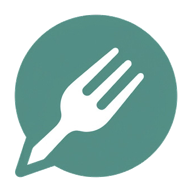
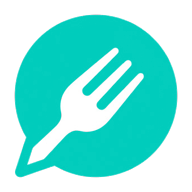
Cores estilo Deliveroo: Teal #00CCBC, Outer Space #2E3333, Lemon e cores de comida por tipo de loja; logótipo e ícones recoloridos
Claude-Session: https://claude.ai/code/session_01Y4KmxGhJ86JYRTJupbkEoC

diff --git a/client/src/pages/customer/Plus.tsx b/client/src/pages/customer/Plus.tsx
@@ -41,11 +41,11 @@ function PlusMember({ info }: { info: PlusInfo }) {
   return (
     <div className="space-y-3">
       <div className="rounded-2xl border bg-white p-5 shadow-sm">
-        <p className="flex items-center gap-2 text-sm font-semibold text-violet-700"><Check className="h-4 w-4" />{t({ pt: "É membro PedeAí Plus", en: "You're a PedeAí Plus member", fr: "Vous êtes membre PedeAí Plus" })}</p>
+        <p className="flex items-center gap-2 text-sm font-semibold text-brand-700"><Check className="h-4 w-4" />{t({ pt: "É membro PedeAí Plus", en: "You're a PedeAí Plus member", fr: "Vous êtes membre PedeAí Plus" })}</p>
         <div className="mt-4 grid grid-cols-2 gap-3">
-          <div className="rounded-xl bg-violet-50 p-3">
-            <p className="text-xs text-violet-700">{t({ pt: "Poupança estimada", en: "Estimated savings", fr: "Économies estimées" })}</p>
-            <p className="text-xl font-bold text-violet-900">{kz(info.estimatedSavings)}</p>
+          <div className="rounded-xl bg-brand-50 p-3">
+            <p className="text-xs text-brand-700">{t({ pt: "Poupança estimada", en: "Estimated savings", fr: "Économies estimées" })}</p>
+            <p className="text-xl font-bold text-brand-900">{kz(info.estimatedSavings)}</p>
           </div>
           <div className="rounded-xl bg-neutral-50 p-3">
             <p className="text-xs text-neutral-600">{sub.autoRenew ? t({ pt: "Renova a", en: "Renews on", fr: "Renouvelé le" }) : t({ pt: "Termina a", en: "Ends on", fr: "Se termine le" })}</p>
@@ -125,7 +125,7 @@ function Subscribe({ price }: { price: number }) {
         </Alert>
       )}
       <PaymentPicker value={method} onChange={setMethod} excludeCash />
-      <Button className="h-12 w-full rounded-xl bg-violet-700 text-base hover:bg-violet-800" disabled={!method || subscribe.isPending || !anyOnline} onClick={() => subscribe.mutate()}>
+      <Button className="h-12 w-full rounded-xl bg-on-brand text-base text-white hover:bg-on-brand/90" disabled={!method || subscribe.isPending || !anyOnline} onClick={() => subscribe.mutate()}>
         {subscribe.isPending && <Loader2 className="mr-2 h-5 w-5 animate-spin" />}
         {t({ pt: `Aderir por ${kz(price)}/mês`, en: `Join for ${kz(price)}/month`, fr: `S'abonner pour ${kz(price)}/mois` })}
       </Button>
@@ -158,7 +158,7 @@ export default function Plus() {
     <CustomerShell>
       <div className="px-4 pb-8 pt-4">
         {/* Hero */}
-        <div className="relative overflow-hidden rounded-3xl bg-gradient-to-br from-violet-700 via-fuchsia-700 to-brand-600 p-6 text-white shadow-lg">
+        <div className="relative overflow-hidden rounded-3xl bg-gradient-to-br from-on-brand via-on-brand to-brand-800 p-6 text-white shadow-lg">
           <Sparkles className="absolute -right-4 -top-4 h-28 w-28 text-white/10" aria-hidden />
           <span className="inline-flex items-center gap-1.5 rounded-full bg-white/15 px-3 py-1 text-xs font-semibold"><Crown className="h-3.5 w-3.5" />PedeAí Plus</span>
           <h1 className="mt-3 text-3xl font-extrabold leading-tight">{t({ pt: "Entregas grátis, todos os dias.", en: "Free delivery, every day.", fr: "Livraison gratuite, tous les jours." })}</h1>
@@ -172,7 +172,7 @@ export default function Plus() {
         <ul className="mt-5 space-y-3">
           {perks.map(({ icon: Icon, title, text }) => (
             <li key={title.pt} className="flex gap-3 rounded-2xl border bg-white p-4 shadow-sm">
-              <span className="flex h-10 w-10 shrink-0 items-center justify-center rounded-xl bg-violet-100 text-violet-700"><Icon className="h-5 w-5" /></span>
+              <span className="flex h-10 w-10 shrink-0 items-center justify-center rounded-xl bg-brand-100 text-brand-700"><Icon className="h-5 w-5" /></span>
               <div>
                 <p className="font-semibold">{t(title)}</p>
                 <p className="text-sm text-neutral-600">{t(text)}</p>

diff --git a/client/src/pages/customer/Profile.tsx b/client/src/pages/customer/Profile.tsx
@@ -166,7 +166,7 @@ function ProfileInner() {
           <p className="truncate text-lg font-bold">{u.fullName}</p>
           <p className="truncate text-sm text-neutral-500">{u.phone}</p>
           {u.email && <p className="truncate text-xs text-neutral-500">{u.email}</p>}
-          {plusQ.data?.active && <span className="mt-1 inline-flex items-center gap-1 rounded-full bg-violet-100 px-2 py-0.5 text-xs font-semibold text-violet-800"><Crown className="h-3 w-3" />Plus</span>}
+          {plusQ.data?.active && <span className="mt-1 inline-flex items-center gap-1 rounded-full bg-brand-100 px-2 py-0.5 text-xs font-semibold text-brand-800"><Crown className="h-3 w-3" />Plus</span>}
         </div>
         <Button variant="outline" size="icon" onClick={() => setEditOpen(true)} aria-label={t({ pt: "Editar perfil", en: "Edit profile", fr: "Modifier le profil" })}><Pencil className="h-4 w-4" /></Button>
       </div>
@@ -177,11 +177,11 @@ function ProfileInner() {
 
       {/* Pontos */}
       {isCustomer && (
-        <Link href="/perfil/pontos" className="flex items-center gap-3 rounded-2xl bg-gradient-to-r from-amber-500 to-brand-600 p-4 text-white shadow-sm">
+        <Link href="/perfil/pontos" className="flex items-center gap-3 rounded-2xl bg-gradient-to-r from-primary to-pop p-4 text-on-brand shadow-sm">
           <Coins className="h-7 w-7" />
           <div className="flex-1">
             <p className="text-2xl font-extrabold leading-none">{u.loyaltyPoints}</p>
-            <p className="text-xs text-white/85">{t({ pt: "pontos · convide amigos e ganhe mais", en: "points · invite friends to earn more", fr: "points · invitez des amis" })}</p>
+            <p className="text-xs opacity-80">{t({ pt: "pontos · convide amigos e ganhe mais", en: "points · invite friends to earn more", fr: "points · invitez des amis" })}</p>
           </div>
           <ChevronRight className="h-5 w-5" />
         </Link>
@@ -194,7 +194,7 @@ function ProfileInner() {
         {isCustomer && <Row href="/favoritos" icon={<Heart className="h-5 w-5" />} label={t({ pt: "Favoritos", en: "Favourites", fr: "Favoris" })} />}
         {isCustomer && <Row href="/perfil/pontos" icon={<Coins className="h-5 w-5" />} label={t({ pt: "Pontos e convites", en: "Points & referrals", fr: "Points et parrainage" })} />}
         {isCustomer && <Row href="/plus" icon={<Crown className="h-5 w-5" />} label="PedeAí Plus"
-          hint={plusQ.data?.active ? <span className="text-xs font-semibold text-violet-700">{t({ pt: "Activo", en: "Active", fr: "Actif" })}</span> : undefined} />}
+          hint={plusQ.data?.active ? <span className="text-xs font-semibold text-brand-700">{t({ pt: "Activo", en: "Active", fr: "Actif" })}</span> : undefined} />}
       </nav>
 
       {/* Preferências */}

diff --git a/client/src/lib/format.ts b/client/src/lib/format.ts
@@ -44,14 +44,26 @@ export const STATUS_COLOR: Record<string, string> = {
   rejected: "bg-red-100 text-red-800",
 };
 
-export const STORE_TYPE: Record<string, Tr & { icon: string }> = {
-  restaurant: { pt: "Restaurantes", en: "Restaurants", fr: "Restaurants", icon: "🍽" },
-  bakery: { pt: "Pastelaria e bolos", en: "Bakery & cakes", fr: "Pâtisserie", icon: "🎂" },
-  grocery: { pt: "Supermercado", en: "Grocery", fr: "Épicerie", icon: "🛒" },
-  pharmacy: { pt: "Farmácia", en: "Pharmacy", fr: "Pharmacie", icon: "💊" },
-  beauty: { pt: "Beleza", en: "Beauty", fr: "Beauté", icon: "💄" },
-  flowers: { pt: "Flores", en: "Flowers", fr: "Fleurs", icon: "💐" },
-  retail: { pt: "Casa e presentes", en: "Home & gifts", fr: "Maison et cadeaux", icon: "🎁" },
+
+/** Cores de comida (secundárias). Usadas nos tipos de loja e nas imagens de reserva. */
+export const FOOD_COLORS = {
+  pumpkin: "#FF7B00", // pizzas, massas, fritos
+  beetroot: "#920054", // carnes, sobremesas de bagas, sumos
+  lime: "#89D900", // frescura, citrinos
+  seaweed: "#004D40", // sushi, saudável, saladas
+  burgerSauce: "#FF5252", // fast food, hambúrgueres, picante
+  lemon: "#FFD54F", // sobremesas, pequenos-almoços
+  ancho: "#5D4037", // grelhados, churrasco, fumo
+} as const;
+
+export const STORE_TYPE: Record<string, Tr & { icon: string; color: string }> = {
+  restaurant: { pt: "Restaurantes", en: "Restaurants", fr: "Restaurants", icon: "🍽", color: FOOD_COLORS.pumpkin },
+  bakery: { pt: "Pastelaria e bolos", en: "Bakery & cakes", fr: "Pâtisserie", icon: "🎂", color: FOOD_COLORS.lemon },
+  grocery: { pt: "Supermercado", en: "Grocery", fr: "Épicerie", icon: "🛒", color: FOOD_COLORS.lime },
+  pharmacy: { pt: "Farmácia", en: "Pharmacy", fr: "Pharmacie", icon: "💊", color: FOOD_COLORS.seaweed },
+  beauty: { pt: "Beleza", en: "Beauty", fr: "Beauté", icon: "💄", color: FOOD_COLORS.beetroot },
+  flowers: { pt: "Flores", en: "Flowers", fr: "Fleurs", icon: "💐", color: FOOD_COLORS.burgerSauce },
+  retail: { pt: "Casa e presentes", en: "Home & gifts", fr: "Maison et cadeaux", icon: "🎁", color: FOOD_COLORS.ancho },
 };
 
 export const DIETARY: Record<string, Tr & { icon: string }> = {
@@ -89,7 +101,7 @@ export function initials(name: string): string {
 
 /** Cor estável a partir de um texto (para capas sem imagem). */
 export function colorFor(text: string): string {
-  const palette = ["#3F7A72", "#C2410C", "#B45309", "#15803D", "#0E7490", "#7C3AED", "#BE185D", "#1D4ED8", "#A16207"];
+  const palette = ["#00897E", "#FF7B00", "#920054", "#004D40", "#FF5252", "#5D4037", "#D35400"];
   let h = 0;
   for (const ch of text) h = (h * 31 + ch.charCodeAt(0)) >>> 0;
   return palette[h % palette.length];

diff --git a/client/src/pages/customer/Home.tsx b/client/src/pages/customer/Home.tsx
@@ -265,7 +265,7 @@ export default function Home() {
         {(meta.data?.storeTypes ?? Object.keys(STORE_TYPE)).map((type) => STORE_TYPE[type] && (
           <Link key={type} href={`/pesquisa?type=${type}${zq}`}
             className="flex min-w-[4.75rem] flex-col items-center gap-1.5 rounded-2xl px-1 py-2 hover:bg-neutral-50">
-            <span className="flex h-14 w-14 items-center justify-center rounded-2xl bg-brand-50 text-2xl" aria-hidden>{STORE_TYPE[type].icon}</span>
+            <span className="flex h-14 w-14 items-center justify-center rounded-2xl text-2xl" style={{ backgroundColor: `${STORE_TYPE[type].color}2E` }} aria-hidden>{STORE_TYPE[type].icon}</span>
             <span className="text-center text-xs font-medium leading-tight text-neutral-700">{t(STORE_TYPE[type])}</span>
           </Link>
         ))}
@@ -273,11 +273,11 @@ export default function Home() {
 
       {/* PedeAí Plus */}
       <div className="px-4 pt-4">
-        <Link href="/plus" className="flex items-center gap-3 rounded-2xl bg-gradient-to-r from-primary to-pop p-4 text-white shadow-md">
+        <Link href="/plus" className="flex items-center gap-3 rounded-2xl bg-gradient-to-r from-primary to-pop p-4 text-on-brand shadow-md">
           <span className="flex h-11 w-11 shrink-0 items-center justify-center rounded-full bg-white/20"><Crown className="h-6 w-6" aria-hidden /></span>
           <div className="min-w-0 flex-1">
             <p className="font-bold">PedeAí Plus</p>
-            <p className="text-sm text-white/90">
+            <p className="text-sm opacity-90">
               {meta.data
                 ? t({
                   pt: `Entregas grátis acima de ${kz(meta.data.plus.freeDeliveryMinOrder)} por ${kz(meta.data.plus.monthlyPrice)}/mês`,

diff --git a/client/src/index.css b/client/src/index.css
@@ -3,18 +3,20 @@
 @tailwind utilities;
 
 :root {
-  /* Marca PedeAí: escala de cor (R G B). Ver docs/CORES.md */
-  --brand-50: 243 247 247;
-  --brand-100: 227 237 236;
-  --brand-200: 200 219 216;
-  --brand-300: 160 193 188;
-  --brand-400: 117 165 158;
-  --brand-500: 82 142 134;
-  --brand-600: 74 128 121;
-  --brand-700: 61 105 99;
-  --brand-800: 48 83 79;
-  --brand-900: 37 64 60;
-  --pop: 43 179 163;
+  /* Marca PedeAí: Teal #00CCBC + Outer Space #2E3333 + cores de comida (ver lib/format.ts). Valores R G B. */
+  --brand-50: 237 251 250;
+  --brand-100: 214 247 244;
+  --brand-200: 173 239 234;
+  --brand-300: 115 227 218;
+  --brand-400: 51 214 201;
+  --brand-500: 0 204 188;
+  --brand-600: 0 131 120;
+  --brand-700: 0 107 98;
+  --brand-800: 0 85 78;
+  --brand-900: 0 66 60;
+  --pop: 255 213 79; /* Lemon #FFD54F (destaque) */
+  --on-brand: 46 51 51; /* Outer Space #2E3333: texto escuro sobre o turquesa */
+  --brand-ink: 0 120 110; /* texto turquesa sobre branco (contraste >= 4.5:1) */
   --background: 0 0% 100%;
   --foreground: 20 14.3% 4.1%;
   --muted: 60 4.8% 95.9%;
@@ -25,7 +27,7 @@
   --card-foreground: 20 14.3% 4.1%;
   --border: 20 5.9% 90%;
   --input: 20 5.9% 90%;
-  --primary: 172 32% 36%; /* Verde PedeAí (logótipo #528E86, escurecido para contraste AA) */
+  --primary: 175 100% 40%;
   --primary-foreground: 60 9.1% 97.8%;
   --secondary: 142 70% 49%; /* Green */
   --secondary-foreground: 24 9.8% 10%;
@@ -88,4 +90,9 @@
 /* Custom shadows */
 .custom-shadow {
   box-shadow: 0 4px 12px rgba(0, 0, 0, 0.08);
+}
+
+/* Texto na cor da marca sobre fundo claro: usar o tom escuro para ser legível */
+@layer utilities {
+  .text-primary { color: rgb(var(--brand-ink)); }
 }

diff --git a/client/src/pages/customer/_orderingKit.tsx b/client/src/pages/customer/_orderingKit.tsx
@@ -268,7 +268,7 @@ export const PAYMENT_ICON: Record<string, string> = { cash: "💵", multicaixa_e
 
 export function SandboxBadge() {
   const t = useT();
-  return <span className="rounded-full bg-violet-100 px-2 py-0.5 text-[10px] font-semibold uppercase tracking-wide text-violet-800">{t({ pt: "modo de teste", en: "test mode", fr: "mode test" })}</span>;
+  return <span className="rounded-full bg-brand-100 px-2 py-0.5 text-[10px] font-semibold uppercase tracking-wide text-brand-800">{t({ pt: "modo de teste", en: "test mode", fr: "mode test" })}</span>;
 }
 
 export function PaymentPicker({ value, onChange, excludeCash }: { value: string; onChange: (v: string) => void; excludeCash?: boolean }) {
@@ -512,7 +512,7 @@ export function QuoteBreakdown({ quote }: { quote: Pick<Quote, "subtotal" | "del
         quote.plusSavings > 0 ? (
           <span className="flex flex-col items-end">
             <span><span className="mr-1.5 text-neutral-400 line-through">{kz(quote.baseDeliveryFee)}</span><span className="font-semibold text-green-700">{t(T.free)}</span></span>
-            <span className="text-[11px] font-semibold text-violet-700">{t({ pt: "Grátis com Plus", en: "Free with Plus", fr: "Gratuit avec Plus" })}</span>
+            <span className="text-[11px] font-semibold text-brand-700">{t({ pt: "Grátis com Plus", en: "Free with Plus", fr: "Gratuit avec Plus" })}</span>
           </span>
         ) : quote.deliveryFee === 0 ? <span className="font-semibold text-green-700">{t(T.free)}</span> : kz(quote.deliveryFee)
       } />

diff --git a/client/src/pages/customer/OrderDetail.tsx b/client/src/pages/customer/OrderDetail.tsx
@@ -359,7 +359,7 @@ function OrderDetailInner({ id }: { id: string }) {
               <li key={s} className="relative flex gap-3 pb-4 last:pb-0">
                 {i < STEPS.length - 1 && <span className={cn("absolute left-[11px] top-6 h-[calc(100%-16px)] w-0.5", currentIdx > i ? "bg-primary" : "bg-neutral-200")} aria-hidden />}
                 <span className={cn("relative z-10 flex h-6 w-6 shrink-0 items-center justify-center rounded-full border-2",
-                  done ? "border-primary bg-primary text-white" : "border-neutral-300 bg-white", current && !isFinal && "ring-4 ring-brand-100")}>
+                  done ? "border-primary bg-primary text-on-brand" : "border-neutral-300 bg-white", current && !isFinal && "ring-4 ring-brand-100")}>
                   {done && <Check className="h-3.5 w-3.5" />}
                 </span>
                 <div className="flex flex-1 items-baseline justify-between gap-2">

diff --git a/tailwind.config.ts b/tailwind.config.ts
@@ -22,8 +22,8 @@ export default {
           foreground: "hsl(var(--popover-foreground))",
         },
         primary: {
-          DEFAULT: "rgb(var(--brand-600) / <alpha-value>)",
-          foreground: "hsl(var(--primary-foreground))",
+          DEFAULT: "rgb(var(--brand-500) / <alpha-value>)",
+          foreground: "rgb(var(--on-brand) / <alpha-value>)",
         },
         secondary: {
           DEFAULT: "hsl(var(--secondary))",
@@ -47,6 +47,7 @@ export default {
         // Cor da marca (definida em index.css; trocar a paleta = trocar só as variáveis)
         brand: Object.fromEntries([50, 100, 200, 300, 400, 500, 600, 700, 800, 900].map((n) => [n, `rgb(var(--brand-${n}) / <alpha-value>)`])),
         pop: "rgb(var(--pop) / <alpha-value>)",
+        "on-brand": "rgb(var(--on-brand) / <alpha-value>)",
         chart: {
           "1": "hsl(var(--chart-1))",
           "2": "hsl(var(--chart-2))",

diff --git a/client/src/pages/info/Info.tsx b/client/src/pages/info/Info.tsx
@@ -83,10 +83,10 @@ function About() {
   ];
   return (
     <>
-      <div className="mb-6 rounded-2xl bg-gradient-to-br from-primary to-pop p-5 text-white">
+      <div className="mb-6 rounded-2xl bg-gradient-to-br from-primary to-pop p-5 text-on-brand">
         <p className="text-3xl" aria-hidden>🛵</p>
         <p className="mt-2 text-xl font-extrabold">PedeAí Delivery</p>
-        <p className="text-sm text-white/90">{t({ pt: "Tudo o que precisa, entregue em Luanda.", en: "Everything you need, delivered in Luanda.", fr: "Tout ce qu'il vous faut, livré à Luanda." })}</p>
+        <p className="text-sm opacity-90">{t({ pt: "Tudo o que precisa, entregue em Luanda.", en: "Everything you need, delivered in Luanda.", fr: "Tout ce qu'il vous faut, livré à Luanda." })}</p>
       </div>
       <Prose blocks={blocks} />
       <div className="mt-8 flex flex-wrap gap-2">

diff --git a/client/src/pages/customer/Orders.tsx b/client/src/pages/customer/Orders.tsx
@@ -155,7 +155,7 @@ function OrdersInner() {
       <Tabs defaultValue={current.length ? "current" : "past"} className="px-4">
         <TabsList className="grid w-full grid-cols-2 rounded-full">
           <TabsTrigger value="current" className="rounded-full">
-            {t({ pt: "Em curso", en: "Active", fr: "En cours" })}{current.length > 0 && <span className="ml-1.5 rounded-full bg-primary px-1.5 text-[10px] text-white">{current.length}</span>}
+            {t({ pt: "Em curso", en: "Active", fr: "En cours" })}{current.length > 0 && <span className="ml-1.5 rounded-full bg-primary px-1.5 text-[10px] text-on-brand">{current.length}</span>}
           </TabsTrigger>
           <TabsTrigger value="past" className="rounded-full">{t({ pt: "Anteriores", en: "Past", fr: "Précédentes" })}</TabsTrigger>
         </TabsList>

diff --git a/client/src/pages/customer/Rewards.tsx b/client/src/pages/customer/Rewards.tsx
@@ -68,7 +68,7 @@ function RewardsBody() {
 
   return (
     <div className="space-y-4 p-4">
-      <section className="rounded-2xl bg-gradient-to-br from-primary to-pop p-5 text-white">
+      <section className="rounded-2xl bg-gradient-to-br from-primary to-pop p-5 text-on-brand">
         <p className="text-sm opacity-90">{t({ pt: "O seu saldo", en: "Your balance", fr: "Votre solde" })}</p>
         <p className="text-4xl font-bold">{data.balance} <span className="text-lg font-medium">{t({ pt: "pontos", en: "points", fr: "points" })}</span></p>
         <p className="mt-1 text-sm opacity-90">≈ {kz(data.balance * data.pointValueKz)} {t({ pt: "de desconto", en: "off your orders", fr: "de réduction" })}</p>

diff --git a/client/src/pages/customer/Cart.tsx b/client/src/pages/customer/Cart.tsx
@@ -200,7 +200,7 @@ export default function Cart() {
 
         {/* Upsell Plus */}
         {showPlusUpsell && (
-          <Link href="/plus" className="flex items-center gap-3 rounded-2xl bg-gradient-to-r from-violet-600 to-fuchsia-600 p-4 text-white shadow-sm">
+          <Link href="/plus" className="flex items-center gap-3 rounded-2xl bg-gradient-to-r from-on-brand to-brand-800 p-4 text-white shadow-sm">
             <Crown className="h-6 w-6 shrink-0" />
             <div className="flex-1">
               <p className="text-sm font-bold">{t({ pt: "Entrega grátis com PedeAí Plus", en: "Free delivery with PedeAí Plus", fr: "Livraison gratuite avec PedeAí Plus" })}</p>
